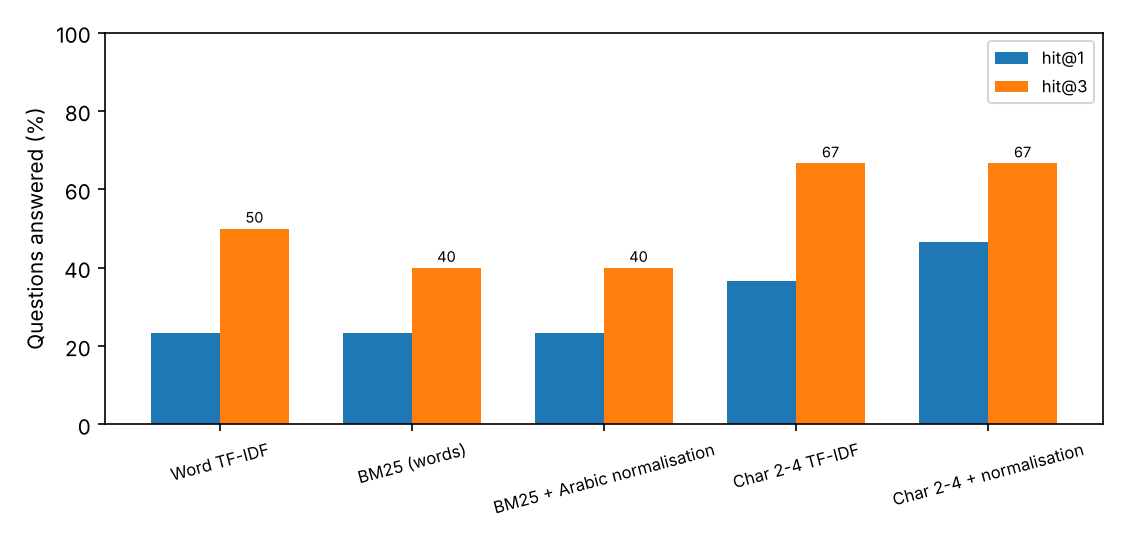
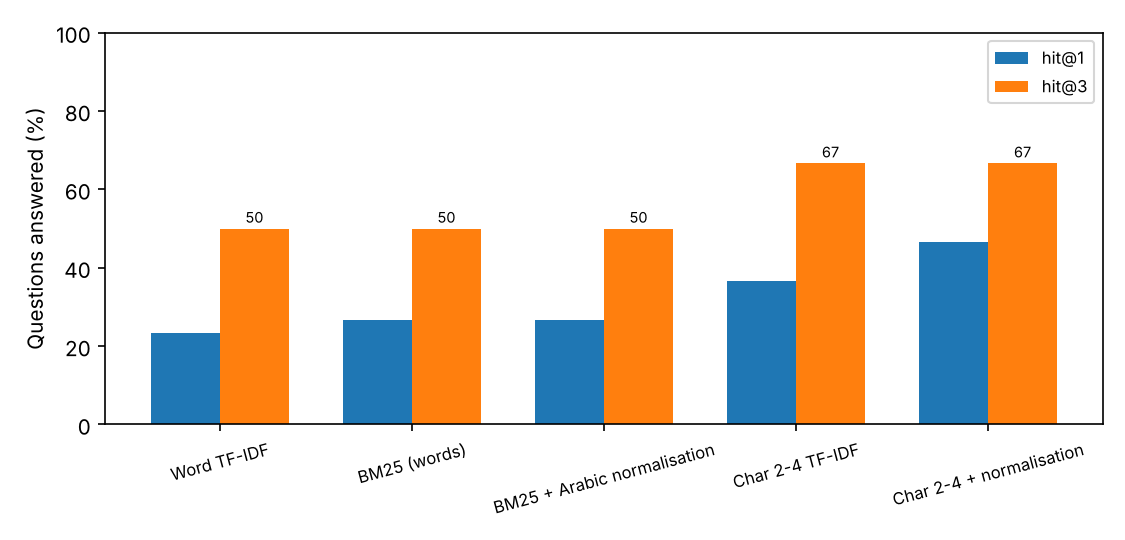
Make ch6c notebook self-contained; fix Arabic tokenizer in ch17

diff --git a/code/ch17.py b/code/ch17.py
@@ -8,7 +8,7 @@ def norm_ar(s):
     s = re.sub(r"[ً-ْـ]", "", s)            # diacritics, tatweel
     s = re.sub("[إأآا]", "ا", s); s = s.replace("ى", "ي").replace("ة", "ه")
     return s
-def tok(s): return re.findall(r"[-ۿ\w]+", s)
+def tok(s): return re.findall(r"\w+", s)
 
 class BM25:
     def __init__(self, docs, k1=1.5, b=0.75):
